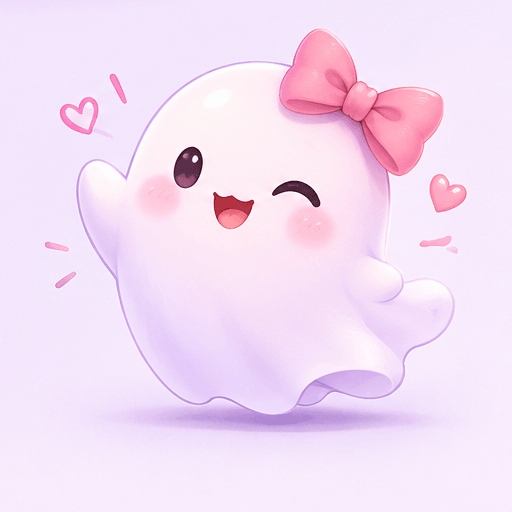
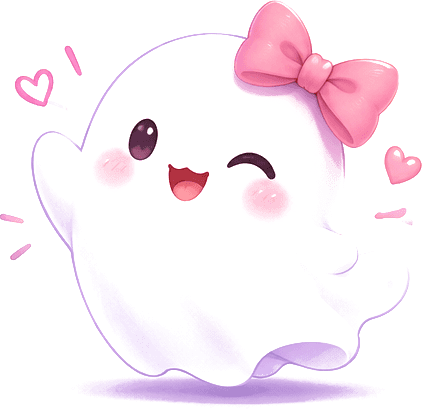
re design fix

diff --git a/apps/web/src/app/page.tsx b/apps/web/src/app/page.tsx
@@ -160,15 +160,20 @@ export default function Home() {
             initial={{ opacity: 0, scale: 0.92 }}
             animate={{ opacity: 1, scale: 1 }}
             transition={{ duration: 0.6, delay: 0.1, ease: "easeOut" }}
-            className="relative mx-auto flex max-w-sm items-center justify-center"
+            className="relative flex h-[22rem] w-full items-center justify-center sm:h-[26rem]"
           >
-            <div className="absolute inset-6 -z-10 rounded-[3rem] bg-lavender/60 dark:bg-lavender/30" />
-            <Image src={girlArt} alt="" priority className="w-[62%] rounded-[2rem] shadow-md" />
+            <div className="absolute top-1/2 left-1/2 -z-10 h-72 w-72 -translate-x-1/2 -translate-y-1/2 rounded-full bg-lavender/70 blur-2xl dark:bg-lavender/25" />
+            <Image
+              src={girlArt}
+              alt="Illustration of a woman smiling warmly"
+              priority
+              className="absolute top-0 left-2 w-[56%] -rotate-3 drop-shadow-xl sm:left-6"
+            />
             <Image
               src={bunnyArt}
-              alt=""
+              alt="Illustration of a cheerful bunny"
               priority
-              className="absolute -right-2 -bottom-6 w-[46%] rounded-[2rem] shadow-md sm:-right-6"
+              className="absolute right-0 bottom-2 w-[46%] rotate-6 drop-shadow-xl sm:right-4"
             />
           </motion.div>
         </div>
@@ -176,24 +181,30 @@ export default function Home() {
 
       {/* Trust strip */}
       <section id="safety" className="border-t border-border bg-surface">
-        <div className="mx-auto w-full max-w-5xl px-6 py-14 sm:px-8">
-          <h2 className="mb-8 font-display text-2xl font-bold text-foreground sm:text-3xl">
-            Built to feel safe, not just say it
-          </h2>
-          <div className="grid gap-6 sm:grid-cols-2 lg:grid-cols-4">
+        <div className="mx-auto grid w-full max-w-5xl gap-10 px-6 py-14 sm:px-8 md:grid-cols-[0.8fr_1.2fr] md:gap-16 md:py-20">
+          <div className="flex flex-col gap-4">
+            <h2 className="font-display text-2xl font-bold text-foreground sm:text-3xl">
+              Built to feel safe, not just say it
+            </h2>
+            <p className="max-w-xs text-sm leading-relaxed text-muted">
+              Most apps ask you to trust a policy. GiiGirl is built so there&apos;s nothing
+              risky to trust in the first place.
+            </p>
+          </div>
+
+          <dl className="flex flex-col divide-y divide-border">
             {trustPoints.map(({ icon: Icon, title, body }) => (
-              <div
-                key={title}
-                className="flex flex-col gap-3 rounded-2xl border border-border bg-background p-5"
-              >
-                <span className="flex h-10 w-10 items-center justify-center rounded-full bg-lavender text-lavender-ink">
+              <div key={title} className="flex items-start gap-4 py-5 first:pt-0 last:pb-0">
+                <span className="mt-0.5 flex h-9 w-9 shrink-0 items-center justify-center rounded-full bg-lavender text-lavender-ink">
                   <Icon />
                 </span>
-                <h3 className="text-sm font-semibold text-foreground">{title}</h3>
-                <p className="text-sm leading-relaxed text-muted">{body}</p>
+                <div>
+                  <dt className="text-sm font-semibold text-foreground">{title}</dt>
+                  <dd className="mt-0.5 text-sm leading-relaxed text-muted">{body}</dd>
+                </div>
               </div>
             ))}
-          </div>
+          </dl>
         </div>
       </section>
 
@@ -219,22 +230,29 @@ export default function Home() {
             </ol>
           </div>
 
-          <div className="relative flex items-center justify-center">
-            <div className="absolute inset-10 -z-10 rounded-[3rem] bg-accent-bg" />
-            <Image src={catArt} alt="" className="w-[42%] rounded-[1.75rem] shadow-md" />
+          <div className="relative flex h-72 items-center justify-center sm:h-80">
+            <div className="absolute top-1/2 left-1/2 -z-10 h-64 w-64 -translate-x-1/2 -translate-y-1/2 rounded-full bg-accent-bg blur-2xl" />
+            <Image
+              src={catArt}
+              alt="Illustration of a playful cat"
+              className="absolute bottom-0 left-1/2 w-[48%] -translate-x-[62%] rotate-3 drop-shadow-xl"
+            />
             <Image
               src={cloudArt}
-              alt=""
-              className="absolute -top-4 right-2 w-[34%] rounded-[1.75rem] shadow-md sm:right-8"
+              alt="Illustration of a smiling cloud"
+              className="absolute top-2 left-1/2 w-[38%] translate-x-[10%] -rotate-6 drop-shadow-xl"
             />
           </div>
         </div>
       </section>
 
       {/* Final CTA */}
-      <section className="border-t border-border bg-surface">
-        <div className="mx-auto flex w-full max-w-5xl flex-col items-center gap-6 px-6 py-16 text-center sm:px-8">
-          <Image src={ghostArt} alt="" className="w-28 rounded-[1.5rem] shadow-md" />
+      <section className="relative overflow-hidden border-t border-border bg-surface">
+        <div className="mx-auto flex w-full max-w-5xl flex-col items-center gap-2 px-6 py-16 text-center sm:px-8">
+          <div className="relative mb-2 h-28 w-28">
+            <div className="absolute top-1/2 left-1/2 -z-10 h-40 w-40 -translate-x-1/2 -translate-y-1/2 rounded-full bg-lavender/70 blur-2xl dark:bg-lavender/25" />
+            <Image src={ghostArt} alt="Illustration of a friendly ghost" className="drop-shadow-xl" />
+          </div>
           <h2 className="font-display max-w-md text-2xl font-bold text-foreground sm:text-3xl">
             Ready to talk to someone who gets it?
           </h2>
